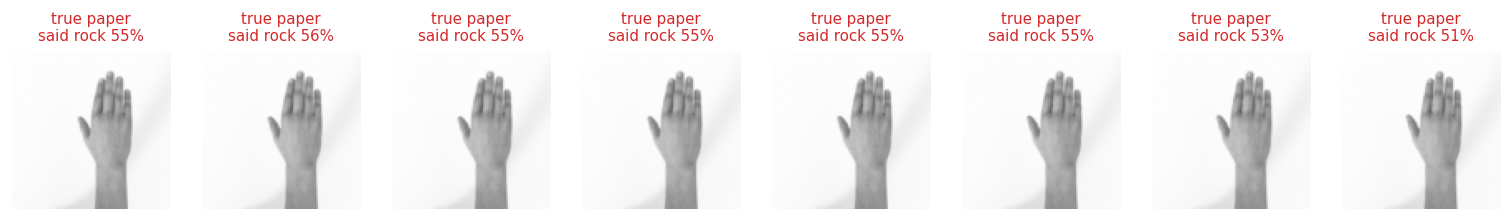
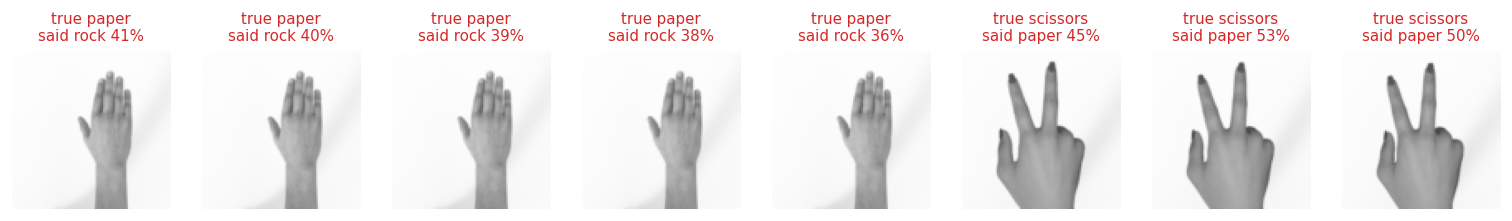
Small CNN retrained with our camera pictures: 92.7% vs MobileNetV2 95.3% on our camera test

diff --git a/Models/RESULTS.md b/Models/RESULTS.md
@@ -6,16 +6,16 @@ Our camera test: our own OV7675 pictures in `data/test` (never used for training
 
 | Model | Kaggle test | Wrong | Our camera test | Best val | Parameters | Trained at start | Epochs | s/epoch | ms/picture |
 |---|---|---|---|---|---|---|---|---|---|
-| Small CNN | **88.4%** | 43/372 | not tested | 90.9% | 93,636 | 93,636 | 30 | 12 (cuda) | 3.4 |
+| Small CNN | **96.2%** | 14/372 | **92.7%** (232 pictures) | 86.6% | 93,636 | 93,636 | 30 | 21 (cuda) | 3.3 |
 | MobileNetV2 | **86.6%** | 50/372 | **95.3%** (232 pictures) | 93.9% | 2,388,356 | 164,484 | 8 | 52 (cuda) | 7.6 |
 
 ## Per class (test set)
 
 | Model | Class | Precision | Recall |
 |---|---|---|---|
-| Small CNN | paper | 1.000 | 0.847 |
-| Small CNN | rock | 0.761 | 0.952 |
-| Small CNN | scissors | 0.946 | 0.855 |
+| Small CNN | paper | 0.975 | 0.960 |
+| Small CNN | rock | 0.919 | 1.000 |
+| Small CNN | scissors | 1.000 | 0.927 |
 | MobileNetV2 | paper | 1.000 | 0.621 |
 | MobileNetV2 | rock | 0.992 | 0.976 |
 | MobileNetV2 | scissors | 0.717 | 1.000 |
@@ -31,6 +31,8 @@ Our camera test: our own OV7675 pictures in `data/test` (never used for training
 ![Small CNN confusion matrix](figures/cnn_confusion.png)
 
 ![Small CNN mistakes](figures/cnn_mistakes.png)
+
+![Small CNN on our camera pictures](figures/cnn_own_confusion.png)
 
 ## MobileNetV2
 
@@ -58,12 +60,18 @@ We will use **MobileNetV2 (transfer learning)** for the game.
   those pictures to training and randomly varying brightness, contrast and blur made it more robust.
 - **Trade-off on Kaggle:** focusing on our camera lowered accuracy on Kaggle's rendered hands from 94.9%
   to 86.6% (it now often calls Kaggle's paper "scissors"). The game only sees our camera, so we accept this.
-- **Versus the small CNN:** on Kaggle-only training, MobileNetV2 beat the small CNN trained from scratch
-  (94.9% vs 88.4% on the Kaggle test set) and learned much faster thanks to pretrained ImageNet features.
+- **Versus the small CNN:** trained on the same data, the small CNN (trained from scratch, 94k parameters)
+  scores **92.7% on our camera pictures**, compared with MobileNetV2's 95.3%. It confuses scissors with paper
+  more often (14 vs 9 times) and calls 3 "no hand" pictures paper. MobileNetV2 also learns much faster thanks
+  to pretrained ImageNet features (about 90% validation accuracy after 2 epochs; the CNN needed 30 epochs).
+- **The small CNN improved most from the extra data:** with our pictures, stronger augmentation and 30 epochs,
+  its Kaggle accuracy rose from 88.4% to 96.2%, now above MobileNetV2's 86.6% there. The game only sees our
+  camera, where MobileNetV2 is better, so the game uses MobileNetV2.
+- **Both models confuse scissors with paper:** since both make the same mistake, it comes from the data rather
+  than the model; more varied scissors pictures are the most useful next step.
 - **Fast enough:** a prediction takes about 6 ms on a T4 GPU and 28 ms on a laptop CPU, small next to the
   camera, which delivers a new picture about every 400 ms (2.5 per second).
 
 **Limitations:** the camera test set is small (232 pictures), comes from one person's hand, and partly
 from the same sessions as training pictures, so accuracy in a new room or with other people is likely
-lower. A fresh test set recorded in a separate session would give a more honest number. The small CNN has
-not been retrained with our pictures.
+lower. A fresh test set recorded in a separate session would give a more honest number.

diff --git a/Models/CONCLUSION.md b/Models/CONCLUSION.md
@@ -14,12 +14,18 @@ We will use **MobileNetV2 (transfer learning)** for the game.
   those pictures to training and randomly varying brightness, contrast and blur made it more robust.
 - **Trade-off on Kaggle:** focusing on our camera lowered accuracy on Kaggle's rendered hands from 94.9%
   to 86.6% (it now often calls Kaggle's paper "scissors"). The game only sees our camera, so we accept this.
-- **Versus the small CNN:** on Kaggle-only training, MobileNetV2 beat the small CNN trained from scratch
-  (94.9% vs 88.4% on the Kaggle test set) and learned much faster thanks to pretrained ImageNet features.
+- **Versus the small CNN:** trained on the same data, the small CNN (trained from scratch, 94k parameters)
+  scores **92.7% on our camera pictures**, compared with MobileNetV2's 95.3%. It confuses scissors with paper
+  more often (14 vs 9 times) and calls 3 "no hand" pictures paper. MobileNetV2 also learns much faster thanks
+  to pretrained ImageNet features (about 90% validation accuracy after 2 epochs; the CNN needed 30 epochs).
+- **The small CNN improved most from the extra data:** with our pictures, stronger augmentation and 30 epochs,
+  its Kaggle accuracy rose from 88.4% to 96.2%, now above MobileNetV2's 86.6% there. The game only sees our
+  camera, where MobileNetV2 is better, so the game uses MobileNetV2.
+- **Both models confuse scissors with paper:** since both make the same mistake, it comes from the data rather
+  than the model; more varied scissors pictures are the most useful next step.
 - **Fast enough:** a prediction takes about 6 ms on a T4 GPU and 28 ms on a laptop CPU, small next to the
   camera, which delivers a new picture about every 400 ms (2.5 per second).
 
 **Limitations:** the camera test set is small (232 pictures), comes from one person's hand, and partly
 from the same sessions as training pictures, so accuracy in a new room or with other people is likely
-lower. A fresh test set recorded in a separate session would give a more honest number. The small CNN has
-not been retrained with our pictures.
+lower. A fresh test set recorded in a separate session would give a more honest number.
